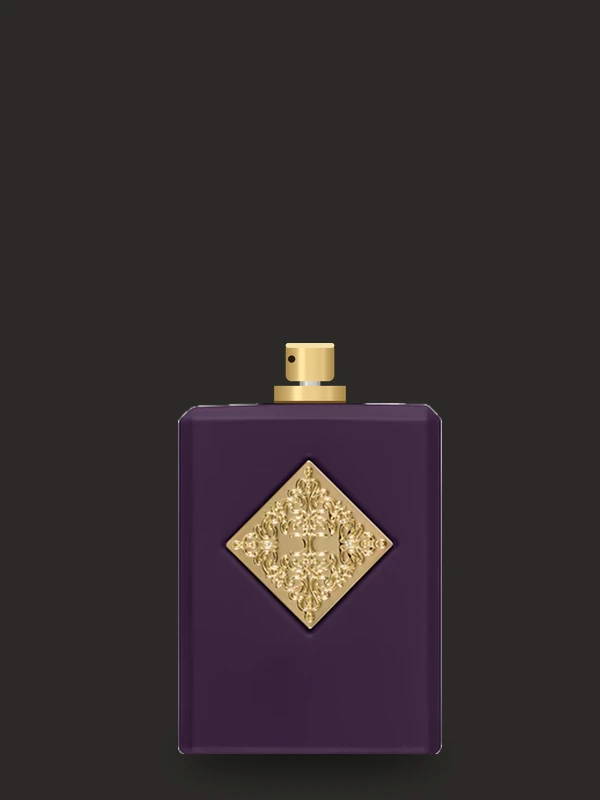
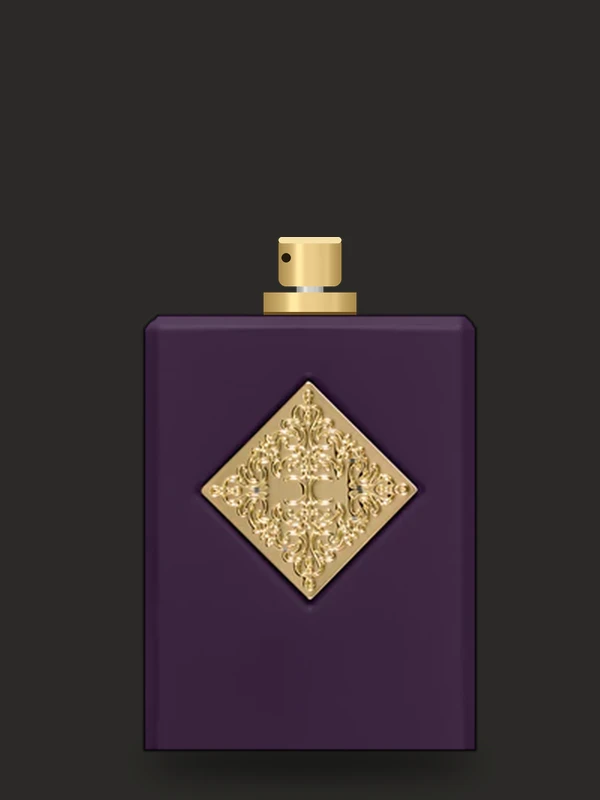
Respray : porte Vendre, flacon agrandi, détourage propre (plus de liseré blanc), bague posée sur le verre
Claude-Session: https://claude.ai/code/session_01Hn1GjhCykPdNeegmJmF9HM

Changed region(s): [[0.24, 0.2812, 0.78, 0.9375], [0.3, 0.9375, 0.72, 0.9688]]

diff --git a/respray/src/components/Visuels.tsx b/respray/src/components/Visuels.tsx
@@ -16,7 +16,7 @@ export function PhotoDemo({vue = 'face', id = DEMO.id, classe = ''}: {vue?: stri
   return <img className={`visuel ${classe}`} src={demoSrc(vue, id)} alt={alt} width={600} height={750} decoding="async" loading="lazy" />;
 }
 
-const BUSE = {x: 0.48, y: 0.449}; // la buse du flacon de la porte (tools/porte-vendre/construire.py)
+const BUSE = {x: 0.469, y: 0.318}; // la buse du flacon de la porte (tools/porte-vendre/construire.py)
 export function Vaporise() {
   const bx = BUSE.x * 600;
   const by = BUSE.y * 800;

diff --git a/respray/tools/porte-vendre/construire.py b/respray/tools/porte-vendre/construire.py
@@ -11,14 +11,20 @@ a = np.asarray(src).astype(int)
 H0, W0 = a.shape[:2]
 
 # 1. le corps seul : sous le bouchon (sa base étroite finit vers 25 % de la hauteur), sans le reflet au sol
-haut, bas = 113, 416
+haut, bas = 115, 412
 corps = src.crop((0, haut, W0, bas))
 c = np.asarray(corps).astype(int)
 # le fond blanc devient transparent (les coins de l'épaule biseautée)
 blanc = np.abs(c - 255).max(axis=2)
 alpha = np.clip((blanc - 6) * 18, 0, 255).astype(np.uint8)
 # les bords à moitié transparents gardent du blanc du fond : on le retire (« démultiplication » par le blanc)
-al = np.asarray(Image.fromarray(alpha).filter(ImageFilter.GaussianBlur(0.6))).astype(float) / 255
+# le flacon touche les bords de la photo : on resserre le masque d'un pixel tout autour (bord mêlé de blanc), puis on
+# l'adoucit
+m = Image.fromarray(alpha)
+cadre = Image.new('L', m.size, 0)
+ImageDraw.Draw(cadre).rectangle([2, 2, m.width - 3, m.height - 3], fill=255)
+m = Image.fromarray(np.minimum(np.asarray(m), np.asarray(cadre))).filter(ImageFilter.MinFilter(3)).filter(ImageFilter.GaussianBlur(0.8))
+al = np.asarray(m).astype(float) / 255
 pur = np.where(al[..., None] > 0.02, (c - 255 * (1 - al[..., None])) / np.maximum(al[..., None], 0.02), c)
 corps = Image.fromarray(np.clip(pur, 0, 255).astype(np.uint8)).convert('RGBA')
 corps.putalpha(Image.fromarray((al * 255).astype(np.uint8)))
@@ -49,7 +55,7 @@ bouton_w, bouton_h = 42 * K, 33 * K
 tige_h = 4 * K
 total_h = bouton_h + tige_h + bague_h
 flacon = Image.new('RGBA', (corps.width, corps.height + total_h), (0, 0, 0, 0))
-flacon.alpha_composite(corps, (0, total_h))
+flacon.alpha_composite(corps, (0, total_h - 3 * K))  # la bague mord un peu sur le verre : pas de jour entre les deux
 bague = metal(bague_w, bague_h)
 ImageDraw.Draw(bague).rectangle([0, bague_h - 2 * K, bague_w, bague_h], fill=(110, 80, 30, 255))  # le joint sombre
 flacon.alpha_composite(bague, (cx - bague_w // 2, total_h - bague_h))
@@ -69,10 +75,10 @@ buse_local = (cx - bouton_w // 2 + 2 * K, buse_y)
 
 # 4. la porte : 600 × 800, le flacon posé en bas, une ombre douce
 W, H = 600, 800
-echelle = 1.16 / K
+echelle = 1.5 / K
 fl = flacon.resize((int(flacon.width * echelle), int(flacon.height * echelle)), Image.LANCZOS)
 x0 = (W - fl.width) // 2 + 10
-y0 = H - 46 - fl.height
+y0 = H - 40 - fl.height
 for nom, fond, force in [('vendre', (233, 232, 238), 0.30), ('vendre-sombre', (43, 42, 39), 0.55)]:
     porte = Image.new('RGBA', (W, H), (*fond, 255))
     ombre = Image.new('L', (W, H), 0)
